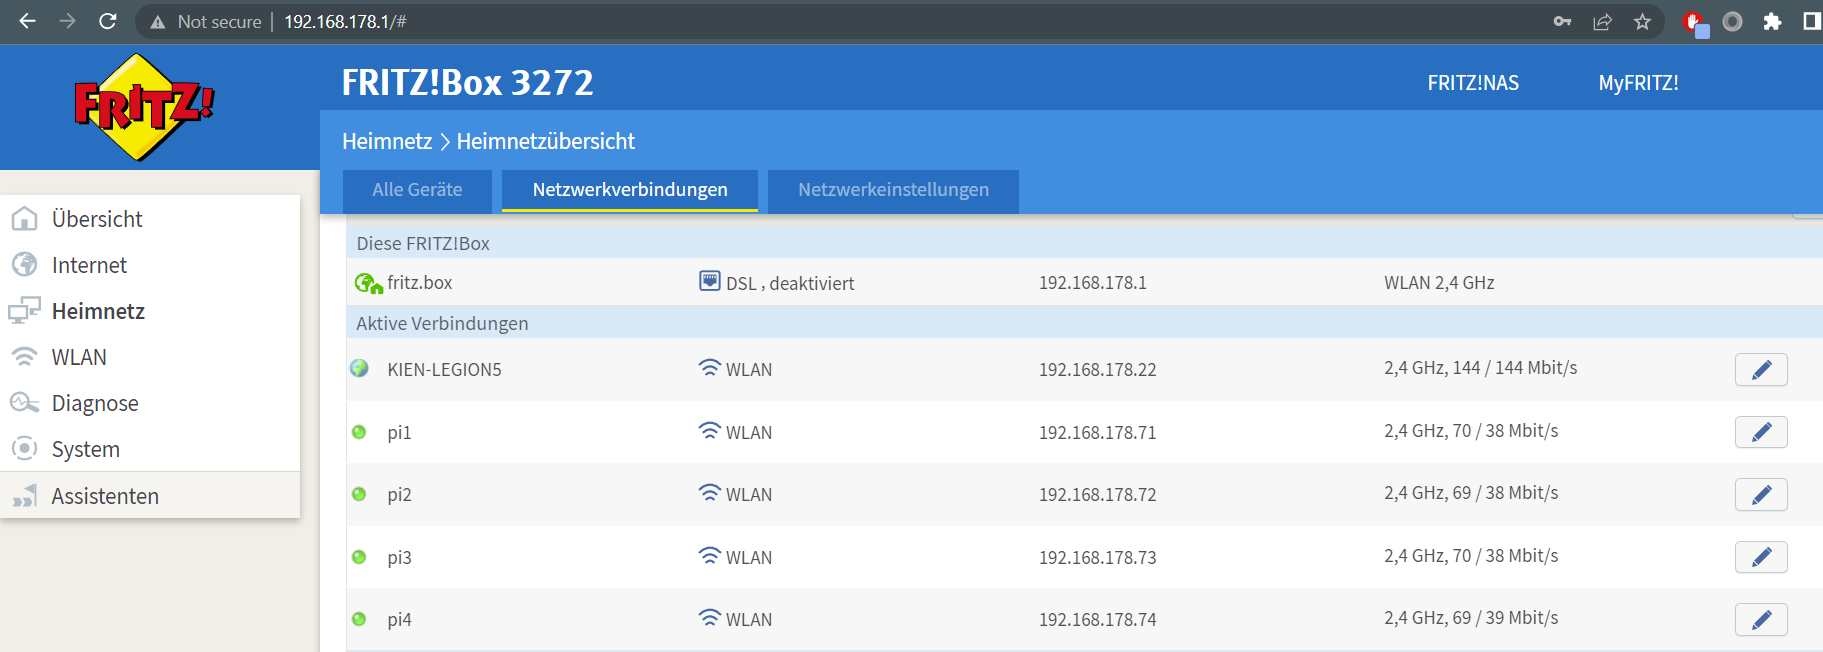
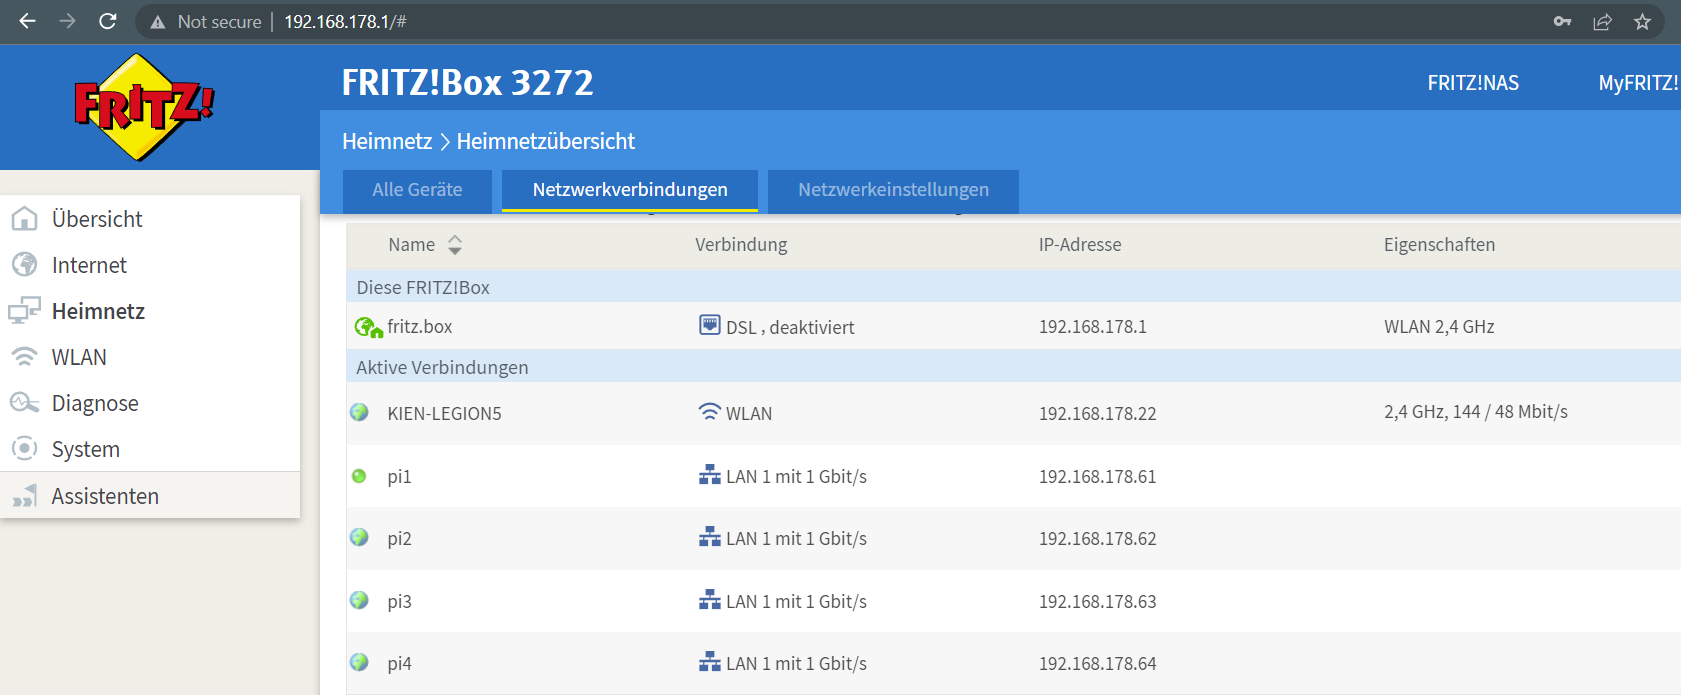
refactor2

diff --git a/docs/Group_2_SS23_ProjectReport.md b/docs/Group_2_SS23_ProjectReport.md
@@ -261,12 +261,12 @@ Thus, it is critical that the master and worker nodes be assigned static (fixed)
 
 - [Assign static IP addresses to all available Raspberry Pi](https://www.giga.de/hardware/avm-fritz-box-fon-wlan-7390/tipps/fritzbox-feste-ip-vergeben-so-geht-s/), then restart all Raspberry Pi.
 
-  | Raspberry Pi | Assigned IP Address (WLAN) |
-  | ------------ | -------------------------- |
-  | ``pi1``      | `192.168.178.71`           |
-  | ``pi2``      | `192.168.178.72`           |
-  | ``pi3``      | `192.168.178.73`           |
-  | ``pi4``      | `192.168.178.74`           |
+  | Raspberry Pi | Assigned IP Address | Connection |
+  | ------------ | ------------------- | ---------- |
+  | ``pi1``      | `192.168.178.61`    | LAN        |
+  | ``pi2``      | `192.168.178.62`    | LAN        |
+  | ``pi3``      | `192.168.178.63`    | LAN        |
+  | ``pi4``      | `192.168.178.64`    | LAN        |
 - To check if the setup works, restart hotspot device, then turn hotspot on again. All Raspberry Pi should still have Internet access and the same static IP addresses assigned to them.
   
   
